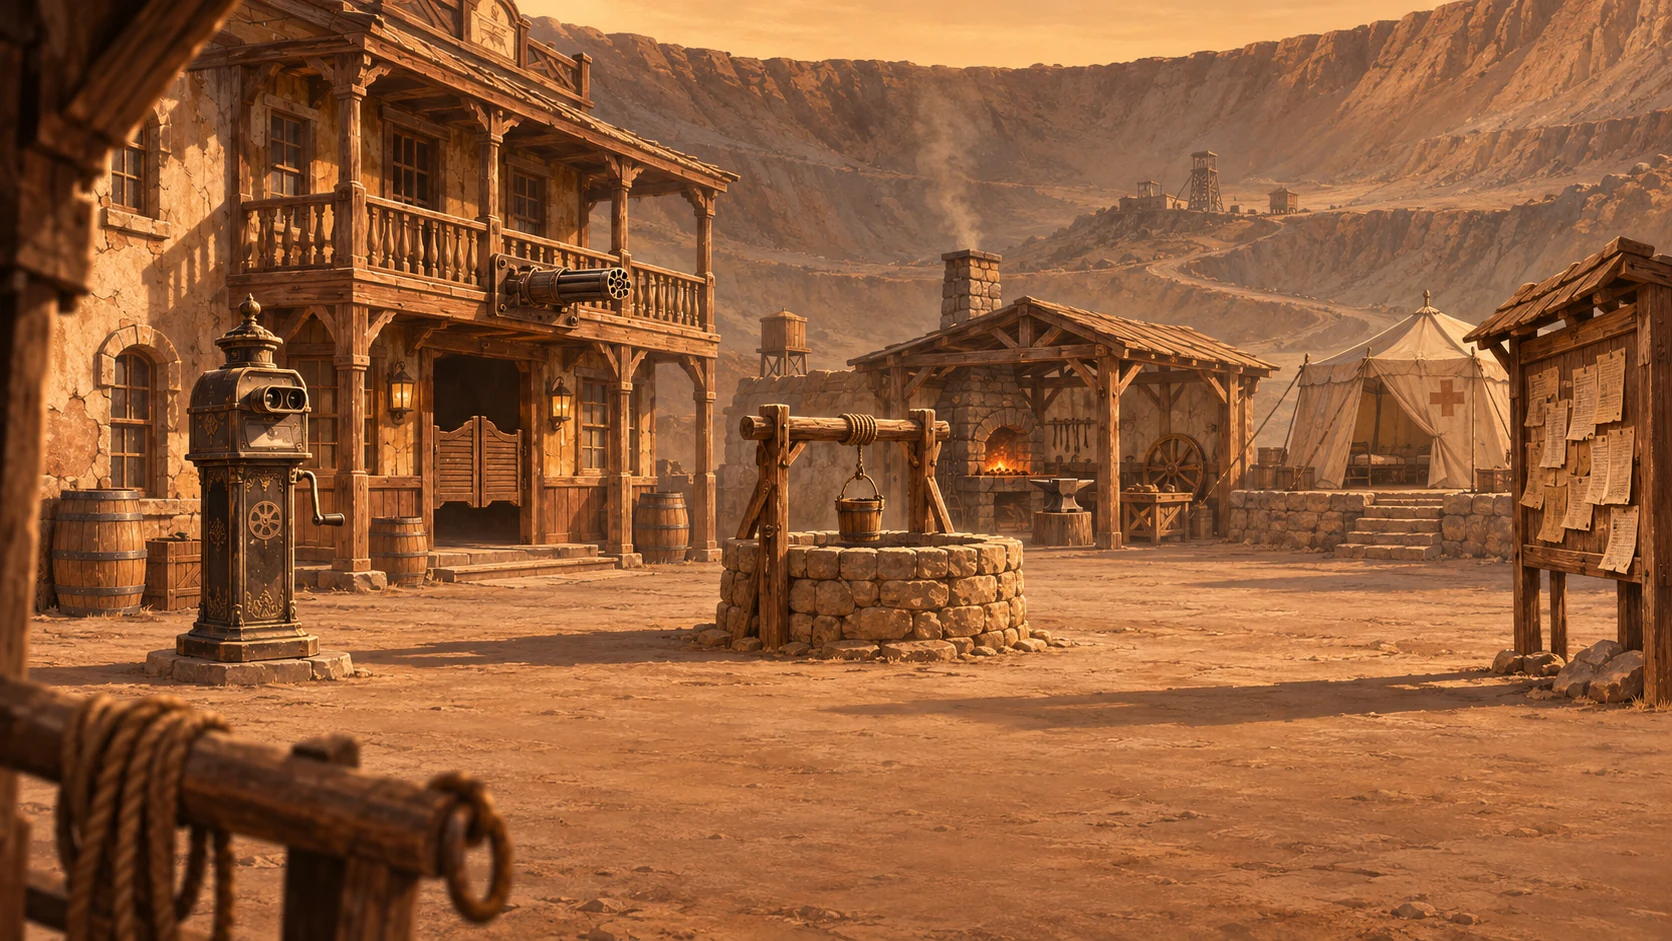
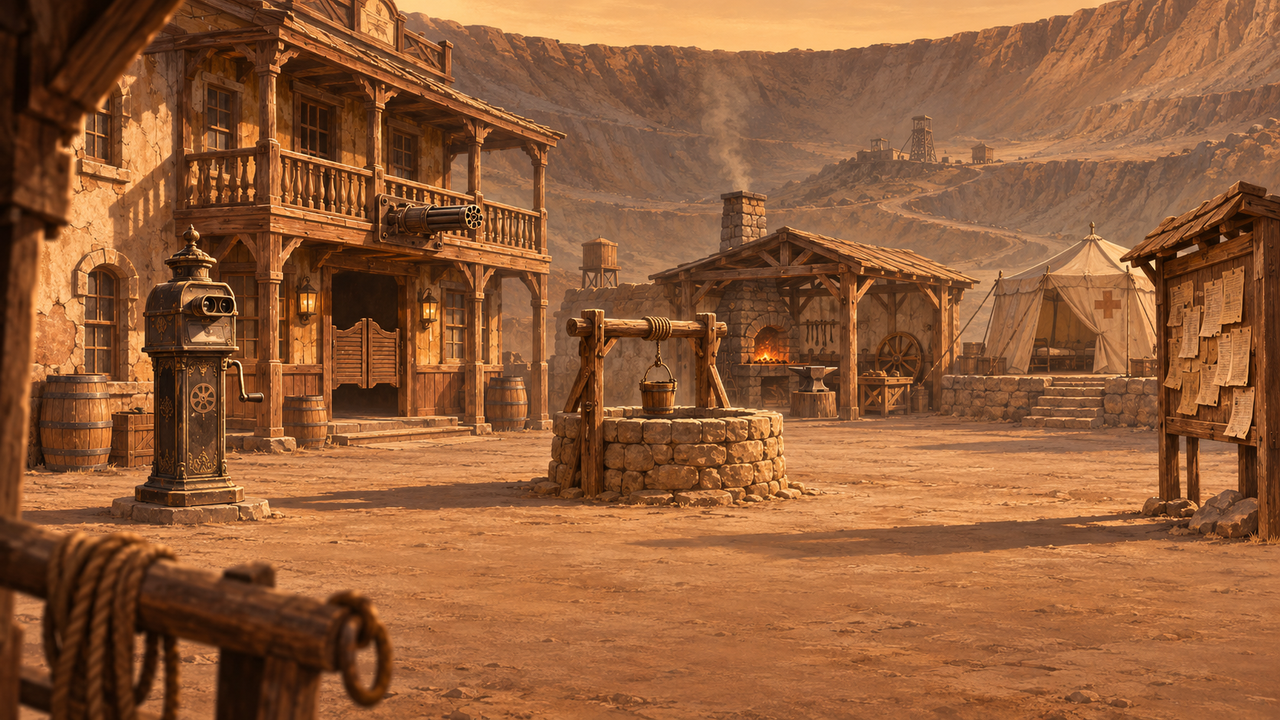
Alle sieben gemalten Orte aufnehmen und einmessen, Figur einbauen
Die Bilder sind da: sieben Hintergruende, die Figur in drei Haltungen, zwei
fehlende Portraits. Alle Hintergruende 1280x720 -- exakt der Spielrahmen, die
Koordinaten gelten also 1:1 und nicht umgerechnet.

Jeder Ort ist am Bild eingemessen statt geraten: begehbares Vieleck, Sperren
fuer Requisiten, Tiefenstaffelung an Massstaeben im Bild (Saloontuer, Zelt,
Amboss, Foerderkorb), und jeder Hotspot auf das, was wirklich dort steht. Die
alten Zahlen waren durchweg falsch, weil sie vor den Bildern entstanden sind.

Dabei zeigt sich, dass die Innenraeume naeher gerahmt sind als die Aussenorte:
In der Schmiede ist die Figur 309 px hoch, auf dem Stadtplatz 174. Das ist kein
Fehler, sondern die Bauform -- jeder Raum hat seine eigene Rahmung, und
Baphomets Fluch haelt es genauso. Die Tiefenspanne bleibt in Innenraeumen
dafuer flach (19 bis 28 %), draussen betraegt sie bis 72 %.

Die Figur wird jetzt gezeichnet statt als Silhouette angedeutet. Der Massstab
kommt aus dem STANDbild und gilt fuer alle drei Haltungen: Die Laufbilder sind
im Schritt ein paar Prozent niedriger, und wer sie alle auf dieselbe Hoehe
zieht, laesst die Figur beim Stehenbleiben wachsen.

Portraits von Quentin und Dolores liegen jetzt dort, wo Sinnbild.gd sie sucht.

Was bewusst NICHT in den Gemaelden steckt und als Naechstes fehlt: NPC- und
Gegenstands-Sprites. Was man aufheben oder ansprechen kann, darf nicht im
Hintergrund festgemalt sein -- ihre Hotspots stehen schon, sie sind nur noch
unsichtbar.
[…]

Changed region(s): [[0.3438, 0.275, 0.375, 0.3056], [0.3125, 0.0917, 0.3438, 0.1222], [0.2812, 0.0611, 0.3125, 0.0917]]

diff --git a/docs/OFFEN.md b/docs/OFFEN.md
@@ -17,7 +17,13 @@ ausgespielt und als durchspielbar nachgewiesen (2675 Prüfungen grün).
 
 | Was | Zustand |
 | :-- | :-- |
-| **Hintergrundbilder** (7 Orte) | fehlen. Das Spiel läuft mit gezeichneten Platzhaltern. Rezeptur in `docs/ABENTEUER.md` §6. **Der ElevenLabs-Verbinder darf zur Zeit keine Bilder erzeugen** („requires additional permissions") — in den Verbinder-Einstellungen auf claude.ai neu verbinden. |
+| **Hintergrundbilder** (7 Orte) | **da und eingemessen.** Alle 1280×720, also 1:1 zum Spielrahmen. Fläche, Sperren, Tiefe und jeder Hotspot sind am Bild abgemessen (`tools/EinmessProbe.gd`). |
+| **Figur** | **da** — stehend, Lauf links, Lauf rechts, freigestellt. Im Spiel eingebaut, Maßstab aus dem Standbild. |
+| Portraits `quentin`, `dolores` | **da**, liegen als `assets/ui/portrait_*.webp`. |
+| **NPC-Figuren** (mabel, silas, doc, gideon, dolores, quentin) | fehlen. Sie gehören NICHT ins Gemälde, sondern als freigestellte Sprites davor — so macht es Baphomets Fluch auch. Ihre Hotspots stehen schon, sie sind nur unsichtbar. |
+| **Gegenstands-Sprites** (Revolver, Brecheisen, Akte, Walze …) | fehlen, aus demselben Grund: Was man aufheben kann, darf nicht im Hintergrund festgemalt sein. |
+| **Vordergrund-Freisteller** | fehlen. `bild_vorn` ist eingebaut; solange nichts da ist, spart die Lauffläche den angeschnittenen Vordergrund aus und kostet Bildfläche. |
+| (alt) Hintergrundbilder | ~~fehlen.~~ Das Spiel läuft mit gezeichneten Platzhaltern. Rezeptur in `docs/ABENTEUER.md` §6. **Der ElevenLabs-Verbinder darf zur Zeit keine Bilder erzeugen** („requires additional permissions") — in den Verbinder-Einstellungen auf claude.ai neu verbinden. |
 | **Figurengrafik** | fehlt. Dreiviertelansicht, Lauf links/rechts, ~210 px, durchsichtiger Grund. Solange: Silhouette mit Hut. |
 | Portraits `quentin`, `dolores` | fehlen (`held`, `mabel`, `silas`, `doc` sind da) |
 | Kapitel 2 | Orte und Rätsel stehen teilweise (`vorschacht`), Schlussszene fehlt |
